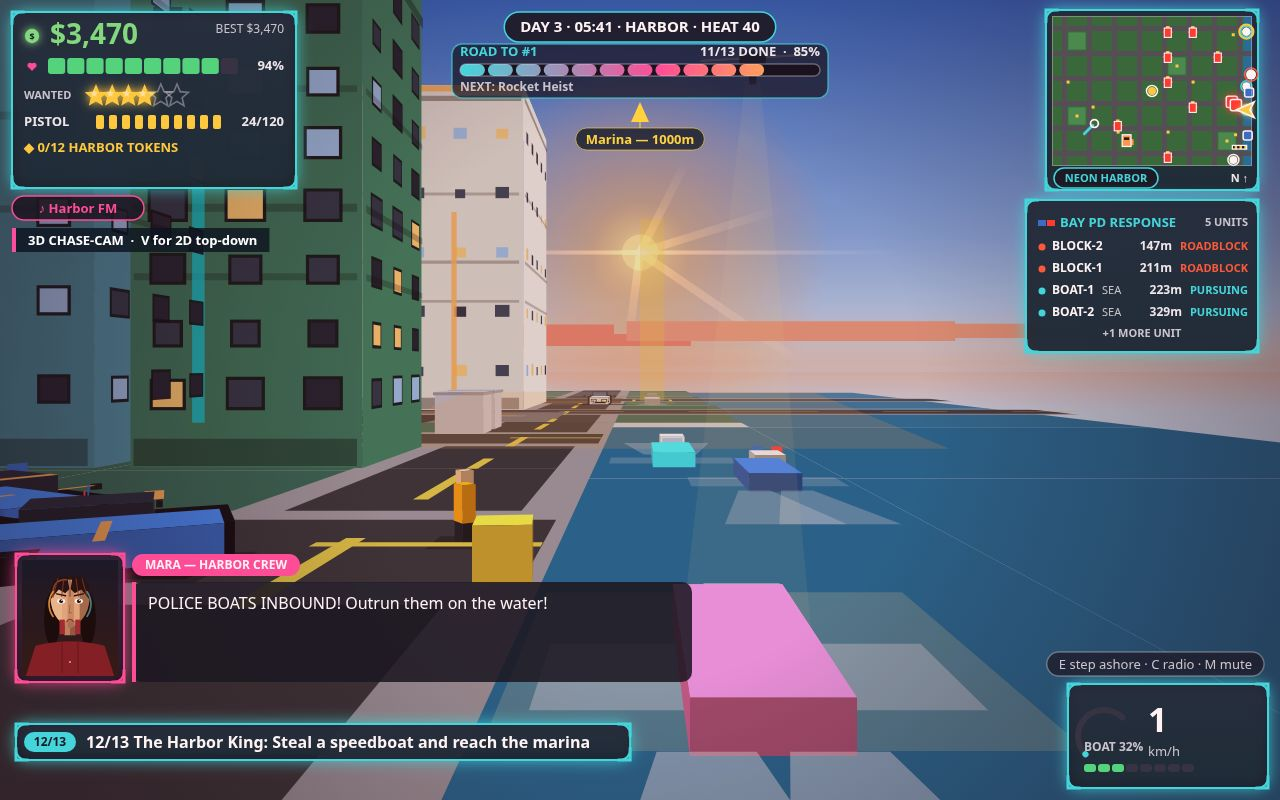
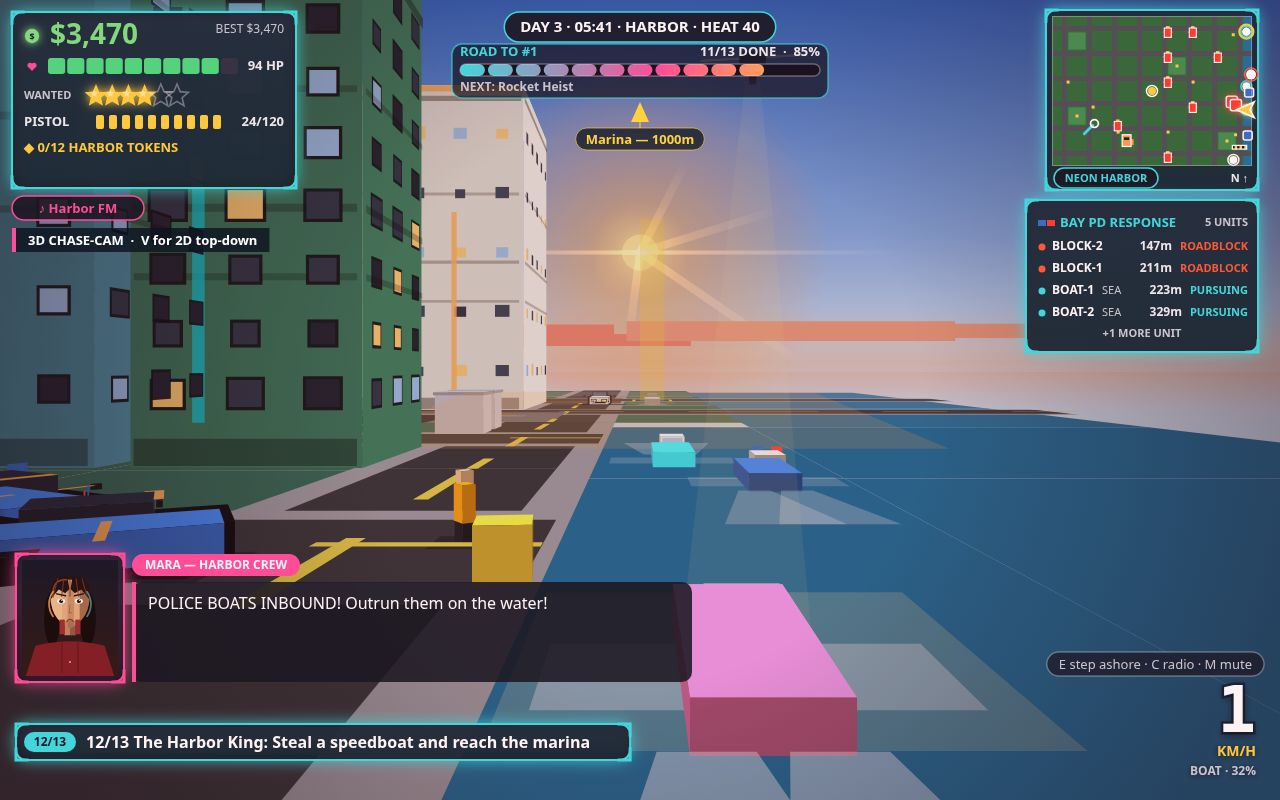
R25i: SPEED-WANTED — speedo angka 64px polos + KM/H GEAR, HP '100 HP'; dossier 163.824/163.840 (0 B), check 5/0, M13 17/17

Changed region(s): [[0.8125, 0.8438, 1.0, 1.0], [0.1875, 0.0625, 0.2188, 0.0938]]

diff --git a/game/src/ui2.js b/game/src/ui2.js
@@ -285,7 +285,7 @@ export function drawHud2(c, st, best, ui, view) {
   T(c, 'BEST $' + best.toLocaleString('en-US'), 284, 30, 12, '#c8cdd6', 'right');
   drawHeart2(c, 32, 66, 9);
   segBar(c, 48, 58, 190, 16, Math.max(0, p.health / 100), p.health > 30 ? '#4ade80' : '#ef4444', 10);
-  T(c, Math.round(p.health) + '%', 284, 66, 13, '#eef1f5', 'right', 'bold');
+  T(c, Math.round(p.health) + ' HP', 284, 66, 13, '#eef1f5', 'right', 'bold');
   T(c, 'WANTED', 24, 96, 11, '#c8cdd6', 'left', 'bold');
   drawWantedRow2(c, 96, 96, 12, 6, Math.floor(st.wanted));
   const wp = WEAPONS[p.weapon];
@@ -334,20 +334,34 @@ export function drawHud2(c, st, best, ui, view) {
   }
   // minimap (top-right)
   drawMinimap2(c, st, W2 - 228, 16, 200, 150);
-  // speed cluster (bottom-right)
+  // speed cluster (bottom-right) — plain big tabular number, no heavy box
+  // (reference "111 MPH" + "MERIDIAN · 82%"; bible §6.2: real-time numbers
+  // tabular so the counter never wobbles; §6.1: outline + drop shadow carry
+  // the contrast, so no panel is needed). Right-anchored at W2-24: the
+  // number grows leftward as digits change, the right edge never moves.
+  // On foot the whole block stays hidden (no empty box left behind).
   if ((p.inCar && p.car) || (p.inBoat && p.boat)) {
     const veh = p.inCar ? p.car : p.boat;
     const spd = Math.round(Math.abs(veh.speed) * 0.36);
-    drawPanel(c, W2 - 212, H2 - 116, 200, 104, C.neonCyan);
-    c.lineWidth = 6; c.strokeStyle = '#2a3242';
-    c.beginPath(); c.arc(W2 - 176, H2 - 64, 26, 2.36, 5.5); c.stroke();
-    c.lineWidth = 6; c.strokeStyle = C.neonCyan;
-    c.beginPath(); c.arc(W2 - 176, H2 - 64, 26, 2.36, 2.36 + Math.min(1, Math.abs(veh.speed) / 540) * 3.14); c.stroke();
-    T(c, String(spd), W2 - 132, H2 - 78, 34, '#ffffff', 'left', 'bold');
-    T(c, 'km/h', W2 - 132, H2 - 48, 13, '#c8cdd6', 'left');
     const hp = Math.max(0, Math.round(veh.hp || 0));
-    T(c, (p.inCar ? 'CAR' : 'BOAT') + ' ' + hp + '%', W2 - 196, H2 - 52, 12, '#c8cdd6', 'left', 'bold');
-    segBar(c, W2 - 196, H2 - 36, 110, 8, hp / 100, hp > 30 ? '#4ade80' : '#ef4444', 8);
+    const rx = W2 - 24;
+    c.save();
+    c.font = 'bold 64px ui-monospace, "SF Mono", Menlo, Consolas, monospace';
+    c.textAlign = 'right'; c.textBaseline = 'alphabetic';
+    c.lineWidth = 5; c.strokeStyle = 'rgba(8,12,24,0.6)';
+    c.strokeText(String(spd), rx, H2 - 68);
+    c.shadowColor = 'rgba(5,8,16,0.75)'; c.shadowBlur = 8; c.shadowOffsetY = 2;
+    c.fillStyle = '#ffffff';
+    c.fillText(String(spd), rx, H2 - 68);
+    c.restore();
+    // unit (+ gear in a car — display-only derivation, 6 gears over 0-540)
+    // then vehicle + condition, both right-aligned, soft shadowed
+    const gear = p.inCar ? Math.min(6, 1 + Math.floor(Math.abs(veh.speed) / 90)) : 0;
+    c.save();
+    c.shadowColor = 'rgba(5,8,16,0.7)'; c.shadowBlur = 6; c.shadowOffsetY = 1;
+    T(c, 'KM/H' + (p.inCar ? ' · GEAR ' + gear : ''), rx, H2 - 48, 14, '#ffd23e', 'right', 'bold');
+    T(c, (p.inCar ? 'CAR' : 'BOAT') + ' · ' + hp + '%', rx, H2 - 28, 12, '#c8cdd6', 'right', 'bold');
+    c.restore();
     if (p.car && p.car.tiresPopped) {
       drawPill(c, W2 - 300, H2 - 150, 288, 26, '#ff3b30', '#fff');
       T(c, 'TIRES POPPED — GARAGE $150 (G)', W2 - 156, H2 - 136, 13, '#fff', 'center', 'bold');
